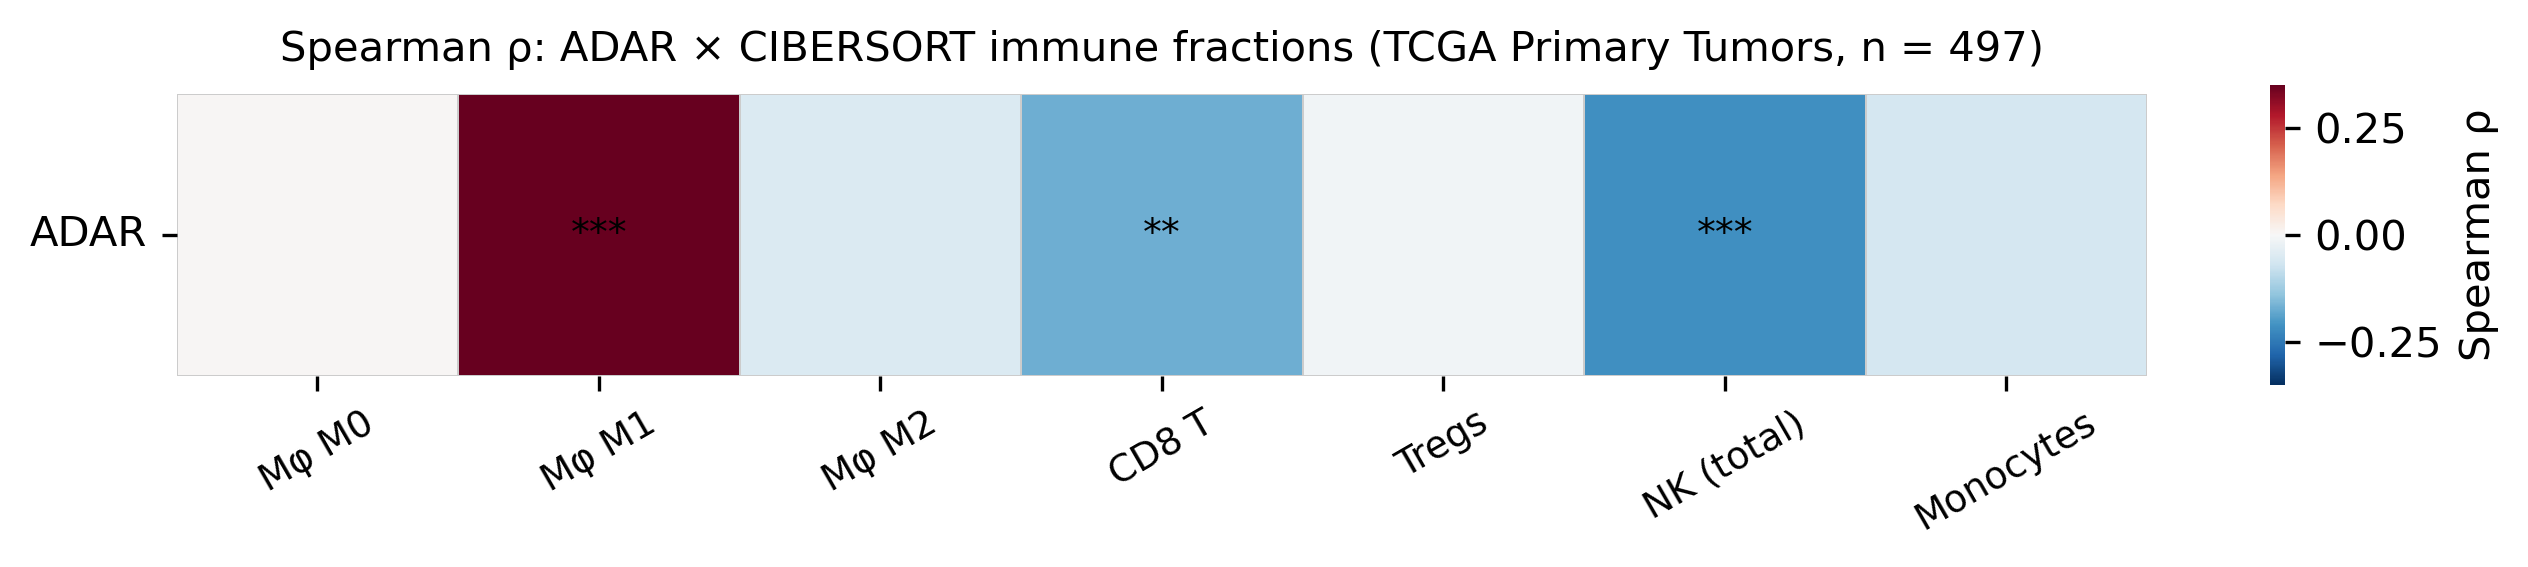
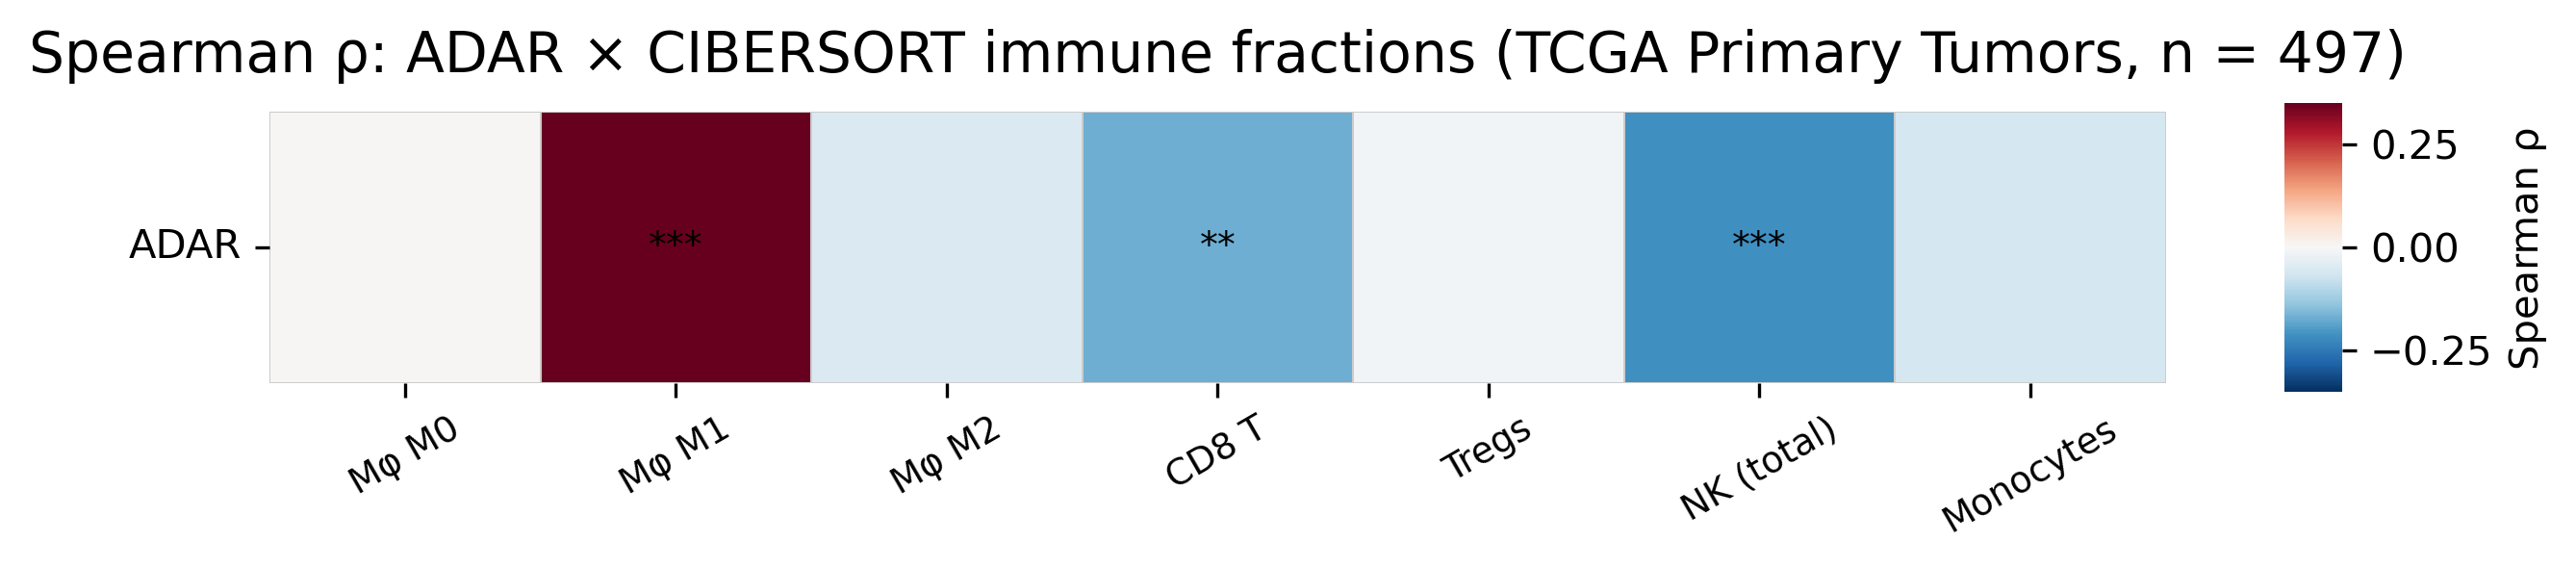
Plot 01: larger title (14pt), wider colorbar (aspect=5)

diff --git a/scripts/tcga_immune_m6a.py b/scripts/tcga_immune_m6a.py
@@ -238,7 +238,7 @@ sns.heatmap(
     linewidths=0.4, linecolor='#cccccc',
     square=True,
     annot_kws={'size': 9, 'color': 'black'},
-    cbar_kws={'label': 'Spearman ρ', 'shrink': 0.8},
+    cbar_kws={'label': 'Spearman ρ', 'shrink': 0.8, 'aspect': 5},
     ax=ax,
 )
 
@@ -248,7 +248,7 @@ ax.set_xlabel('')
 ax.set_ylabel('')
 ax.set_title(
     f'Spearman ρ: ADAR × CIBERSORT immune fractions (TCGA Primary Tumors, n = {_n})',
-    fontsize=10, pad=8,
+    fontsize=14, pad=10,
 )
 
 plt.tight_layout()